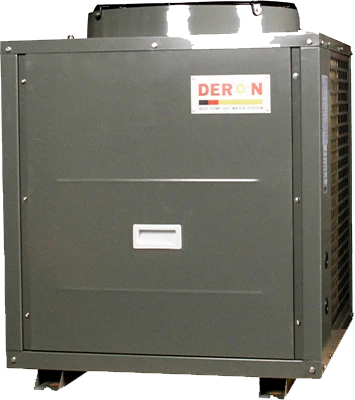
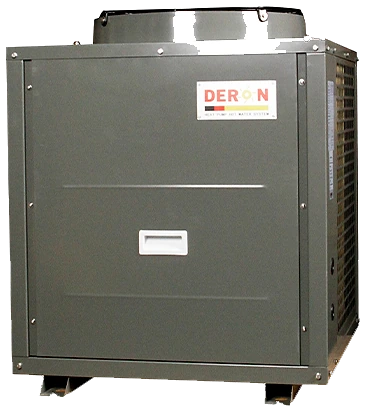
Contact cards fit their text, and clean Deron photos
- Contact: the Customer service & repairs label ran past its card on laptops (the card is a tel: link, whose no-wrap rule also held the label). The columns now follow their content and the label may wrap
- Deron Air to Water and Swimming Pool: re-cut from the originals on DPY's old website, with a soft floor shadow instead of the ragged white floor, and the pool unit's fan housing whole. Pages that show them get the new sizes

diff --git a/products/deron-air-to-water-heat-pump.html b/products/deron-air-to-water-heat-pump.html
@@ -696,12 +696,12 @@ html.gal-open{overflow:hidden}
       <div class="pd-media">
         <div class="stage gal" data-gal role="region" aria-roledescription="carousel" aria-label="Photos of Deron Air to Water Heat Pump">
           <span class="halo"></span><span class="floor"></span><span class="plinth"></span>
-          <div class="gal-track" tabindex="0"><figure class="gal-s" role="group" aria-roledescription="slide" aria-label="1 of 3"><img src="../assets/img/dpy/deron-wizard.webp" width="450" height="470" alt="Deron Air to Water Heat Pump" class="main" fetchpriority="high"></figure><figure class="gal-s" role="group" aria-roledescription="slide" aria-label="2 of 3"><img src="../assets/img/dpy/deron-rooftop.webp" width="1279" height="959" alt="Deron air-to-water heat pumps installed on a rooftop" srcset="../assets/img/dpy/deron-rooftop-800.webp 800w, ../assets/img/dpy/deron-rooftop.webp 1279w" sizes="(max-width:640px) 100vw, 60vw" class="main photo" loading="lazy"><figcaption>Installed on a rooftop</figcaption></figure><figure class="gal-s" role="group" aria-roledescription="slide" aria-label="3 of 3"><img src="../assets/img/dpy/deron-rooftop-tank.webp" width="1440" height="1080" alt="A Deron heat pump on a rooftop beside a stainless steel hot water tank" srcset="../assets/img/dpy/deron-rooftop-tank-800.webp 800w, ../assets/img/dpy/deron-rooftop-tank.webp 1440w" sizes="(max-width:640px) 100vw, 60vw" class="main photo" loading="lazy"><figcaption>With a hot water tank</figcaption></figure></div>
+          <div class="gal-track" tabindex="0"><figure class="gal-s" role="group" aria-roledescription="slide" aria-label="1 of 3"><img src="../assets/img/dpy/deron-wizard.webp" width="449" height="466" alt="Deron Air to Water Heat Pump" class="main" fetchpriority="high"></figure><figure class="gal-s" role="group" aria-roledescription="slide" aria-label="2 of 3"><img src="../assets/img/dpy/deron-rooftop.webp" width="1279" height="959" alt="Deron air-to-water heat pumps installed on a rooftop" srcset="../assets/img/dpy/deron-rooftop-800.webp 800w, ../assets/img/dpy/deron-rooftop.webp 1279w" sizes="(max-width:640px) 100vw, 60vw" class="main photo" loading="lazy"><figcaption>Installed on a rooftop</figcaption></figure><figure class="gal-s" role="group" aria-roledescription="slide" aria-label="3 of 3"><img src="../assets/img/dpy/deron-rooftop-tank.webp" width="1440" height="1080" alt="A Deron heat pump on a rooftop beside a stainless steel hot water tank" srcset="../assets/img/dpy/deron-rooftop-tank-800.webp 800w, ../assets/img/dpy/deron-rooftop-tank.webp 1440w" sizes="(max-width:640px) 100vw, 60vw" class="main photo" loading="lazy"><figcaption>With a hot water tank</figcaption></figure></div>
           <button class="gal-btn prev" type="button" aria-label="Previous photo"><svg aria-hidden="true"><use href="#arr"/></svg></button><button class="gal-btn next" type="button" aria-label="Next photo"><svg aria-hidden="true"><use href="#arr"/></svg></button>
           <button class="gal-full" type="button" aria-label="View the photos full screen"><svg viewBox="0 0 16 16" fill="none" stroke="currentColor" stroke-width="1.7" stroke-linecap="round" stroke-linejoin="round" aria-hidden="true"><path d="M9.5 2.5h4v4M6.5 13.5h-4v-4M13.5 2.5 9 7M2.5 13.5 7 9"/></svg></button>
           <span class="gal-n" aria-hidden="true"><b>1</b> / 3</span>
         </div>
-        <div class="gal-th"><button type="button" aria-label="Photo 1 of 3: Deron Air to Water Heat Pump" aria-current="true"><img src="../assets/img/dpy/deron-wizard.webp" width="450" height="470" alt="" loading="lazy"></button><button type="button" aria-label="Photo 2 of 3: Deron air-to-water heat pumps installed on a rooftop"><img src="../assets/img/dpy/deron-rooftop.webp" width="1279" height="959" alt="" srcset="../assets/img/dpy/deron-rooftop-800.webp 800w, ../assets/img/dpy/deron-rooftop.webp 1279w" sizes="72px" loading="lazy"></button><button type="button" aria-label="Photo 3 of 3: A Deron heat pump on a rooftop beside a stainless steel hot water tank"><img src="../assets/img/dpy/deron-rooftop-tank.webp" width="1440" height="1080" alt="" srcset="../assets/img/dpy/deron-rooftop-tank-800.webp 800w, ../assets/img/dpy/deron-rooftop-tank.webp 1440w" sizes="72px" loading="lazy"></button></div>
+        <div class="gal-th"><button type="button" aria-label="Photo 1 of 3: Deron Air to Water Heat Pump" aria-current="true"><img src="../assets/img/dpy/deron-wizard.webp" width="449" height="466" alt="" loading="lazy"></button><button type="button" aria-label="Photo 2 of 3: Deron air-to-water heat pumps installed on a rooftop"><img src="../assets/img/dpy/deron-rooftop.webp" width="1279" height="959" alt="" srcset="../assets/img/dpy/deron-rooftop-800.webp 800w, ../assets/img/dpy/deron-rooftop.webp 1279w" sizes="72px" loading="lazy"></button><button type="button" aria-label="Photo 3 of 3: A Deron heat pump on a rooftop beside a stainless steel hot water tank"><img src="../assets/img/dpy/deron-rooftop-tank.webp" width="1440" height="1080" alt="" srcset="../assets/img/dpy/deron-rooftop-tank-800.webp 800w, ../assets/img/dpy/deron-rooftop-tank.webp 1440w" sizes="72px" loading="lazy"></button></div>
       </div>
     </div>
   </div>
@@ -776,7 +776,7 @@ html.gal-open{overflow:hidden}
   <div class="acts"><button class="cmpb" type="button" data-cmp="deron-water-to-water-heat-pump" data-name="Deron Water to Water Heat Pump" data-img="assets/img/dpy/deron-w2w.webp" aria-pressed="false" aria-label="Compare Deron Water to Water Heat Pump" title="Compare"><svg viewBox="0 0 16 16" fill="none" stroke="currentColor" stroke-width="1.7" stroke-linecap="round" stroke-linejoin="round" aria-hidden="true"><path d="M2.5 5h9M9 2.5 11.5 5 9 7.5M13.5 11h-9M7 8.5 4.5 11 7 13.5"/></svg></button><button class="addq" type="button" data-add="deron-water-to-water-heat-pump" data-name="Deron Water to Water Heat Pump" data-img="assets/img/dpy/deron-w2w.webp" data-cat="heatpump" aria-pressed="false" aria-label="Add Deron Water to Water Heat Pump to your quote"><svg aria-hidden="true"><use href="#plus"/></svg><span class="of">Add<span class="lg"> to quote</span></span><span class="on"><span class="lg">In your quote</span><span class="sm">Added</span></span></button></div>
 </article><article class="pc" data-cat="heatpump" data-for="business" data-r>
   <span class="tag">Heat pump</span><span class="who"><span class="b">Business</span></span>
-  <div class="pic"><img src="../assets/img/dpy/deron-pool.webp" width="355" height="400" alt="Deron Swimming Pool Heat Pump" loading="lazy"></div>
+  <div class="pic"><img src="../assets/img/dpy/deron-pool.webp" width="366" height="412" alt="Deron Swimming Pool Heat Pump" loading="lazy"></div>
   <p class="br">Deron · 34 to 86 kW</p>
   <h3><a href="../products/deron-swimming-pool-heat-pump">Deron Swimming Pool Heat Pump</a></h3>
   <p>Keeps resort and hotel pools at a comfortable temperature, with a corrosion-proof titanium heat exchanger.</p>

diff --git a/water-heaters.html b/water-heaters.html
@@ -579,7 +579,7 @@ html.modal-open{overflow:hidden}
       <p class="lede">25 products from 14 brands, for a single shower or a whole hotel. Every one is supplied, installed and serviced by our own team.</p>
       <div class="ph-acts"><button class="btn red" type="button" data-finder>Help me choose <svg aria-hidden="true"><use href="#arr"/></svg></button><a class="btn ghost" href="#range">Browse all products</a></div>
     </div>
-    <div class="lineup" aria-hidden="true"><img src="assets/img/dpy/aquapower-a35.webp" width="1634" height="2513" alt="" srcset="assets/img/dpy/aquapower-a35-800.webp 800w, assets/img/dpy/aquapower-a35.webp 1634w" sizes="(max-width:640px) 100vw, 60vw" class="a"><img src="assets/img/dpy/rheem.webp" width="270" height="452" alt="" class="b"><img src="assets/img/dpy/heatpump-5star.webp" width="138" height="410" alt="" class="c"><img src="assets/img/dpy/deron-wizard.webp" width="450" height="470" alt="" class="d"></div>
+    <div class="lineup" aria-hidden="true"><img src="assets/img/dpy/aquapower-a35.webp" width="1634" height="2513" alt="" srcset="assets/img/dpy/aquapower-a35-800.webp 800w, assets/img/dpy/aquapower-a35.webp 1634w" sizes="(max-width:640px) 100vw, 60vw" class="a"><img src="assets/img/dpy/rheem.webp" width="270" height="452" alt="" class="b"><img src="assets/img/dpy/heatpump-5star.webp" width="138" height="410" alt="" class="c"><img src="assets/img/dpy/deron-wizard.webp" width="449" height="466" alt="" class="d"></div>
   </div>
 </section>
 
@@ -703,7 +703,7 @@ html.modal-open{overflow:hidden}
   <div class="acts"><button class="cmpb" type="button" data-cmp="5-star-integral-heat-pump" data-name="5 Star Integral Heat Pump" data-img="assets/img/dpy/heatpump-5star.webp" aria-pressed="false" aria-label="Compare 5 Star Integral Heat Pump" title="Compare"><svg viewBox="0 0 16 16" fill="none" stroke="currentColor" stroke-width="1.7" stroke-linecap="round" stroke-linejoin="round" aria-hidden="true"><path d="M2.5 5h9M9 2.5 11.5 5 9 7.5M13.5 11h-9M7 8.5 4.5 11 7 13.5"/></svg></button><button class="addq" type="button" data-add="5-star-integral-heat-pump" data-name="5 Star Integral Heat Pump" data-img="assets/img/dpy/heatpump-5star.webp" data-cat="heatpump" aria-pressed="false" aria-label="Add 5 Star Integral Heat Pump to your quote"><svg aria-hidden="true"><use href="#plus"/></svg><span class="of">Add<span class="lg"> to quote</span></span><span class="on"><span class="lg">In your quote</span><span class="sm">Added</span></span></button></div>
 </article><article class="pc" data-cat="heatpump" data-for="business" data-r>
   <span class="tag">Heat pump</span><span class="who"><span class="b">Business</span></span>
-  <div class="pic"><img src="assets/img/dpy/deron-wizard.webp" width="450" height="470" alt="Deron Air to Water Heat Pump" loading="lazy"></div>
+  <div class="pic"><img src="assets/img/dpy/deron-wizard.webp" width="449" height="466" alt="Deron Air to Water Heat Pump" loading="lazy"></div>
   <p class="br">Deron · 11 to 75 kW</p>
   <h3><a href="products/deron-air-to-water-heat-pump">Deron Air to Water Heat Pump</a></h3>
   <p>Commercial heat pumps that heat water to 55–60°C for hotels, hospitals and buildings, with a COP of about 4.</p>
@@ -719,7 +719,7 @@ html.modal-open{overflow:hidden}
   <div class="acts"><button class="cmpb" type="button" data-cmp="deron-water-to-water-heat-pump" data-name="Deron Water to Water Heat Pump" data-img="assets/img/dpy/deron-w2w.webp" aria-pressed="false" aria-label="Compare Deron Water to Water Heat Pump" title="Compare"><svg viewBox="0 0 16 16" fill="none" stroke="currentColor" stroke-width="1.7" stroke-linecap="round" stroke-linejoin="round" aria-hidden="true"><path d="M2.5 5h9M9 2.5 11.5 5 9 7.5M13.5 11h-9M7 8.5 4.5 11 7 13.5"/></svg></button><button class="addq" type="button" data-add="deron-water-to-water-heat-pump" data-name="Deron Water to Water Heat Pump" data-img="assets/img/dpy/deron-w2w.webp" data-cat="heatpump" aria-pressed="false" aria-label="Add Deron Water to Water Heat Pump to your quote"><svg aria-hidden="true"><use href="#plus"/></svg><span class="of">Add<span class="lg"> to quote</span></span><span class="on"><span class="lg">In your quote</span><span class="sm">Added</span></span></button></div>
 </article><article class="pc" data-cat="heatpump" data-for="business" data-r>
   <span class="tag">Heat pump</span><span class="who"><span class="b">Business</span></span>
-  <div class="pic"><img src="assets/img/dpy/deron-pool.webp" width="355" height="400" alt="Deron Swimming Pool Heat Pump" loading="lazy"></div>
+  <div class="pic"><img src="assets/img/dpy/deron-pool.webp" width="366" height="412" alt="Deron Swimming Pool Heat Pump" loading="lazy"></div>
   <p class="br">Deron · 34 to 86 kW</p>
   <h3><a href="products/deron-swimming-pool-heat-pump">Deron Swimming Pool Heat Pump</a></h3>
   <p>Keeps resort and hotel pools at a comfortable temperature, with a corrosion-proof titanium heat exchanger.</p>

diff --git a/products/deron-swimming-pool-heat-pump.html b/products/deron-swimming-pool-heat-pump.html
@@ -693,7 +693,7 @@ html.gal-open{overflow:hidden}
         <div class="ph-acts"><a class="btn red" href="../contact?add=deron-swimming-pool-heat-pump#quote" data-quote-now="deron-swimming-pool-heat-pump" data-name="Deron Swimming Pool Heat Pump" data-img="assets/img/dpy/deron-pool.webp" data-cat="heatpump">Get a quote for this <svg aria-hidden="true"><use href="#arr"/></svg></a><button class="addq" type="button" data-add="deron-swimming-pool-heat-pump" data-name="Deron Swimming Pool Heat Pump" data-img="assets/img/dpy/deron-pool.webp" data-cat="heatpump" aria-pressed="false"><svg aria-hidden="true"><use href="#plus"/></svg><span class="of">Add to quote list</span><span class="on">In your quote list</span></button><button class="cmpb wide" type="button" data-cmp="deron-swimming-pool-heat-pump" data-name="Deron Swimming Pool Heat Pump" data-img="assets/img/dpy/deron-pool.webp" aria-pressed="false"><svg viewBox="0 0 16 16" fill="none" stroke="currentColor" stroke-width="1.7" stroke-linecap="round" stroke-linejoin="round" aria-hidden="true"><path d="M2.5 5h9M9 2.5 11.5 5 9 7.5M13.5 11h-9M7 8.5 4.5 11 7 13.5"/></svg><span class="of">Compare</span><span class="on">Comparing</span></button></div>
         <div class="pd-msg">Questions first? <a class="msgr fb" href="https://m.me/dpymercantileinc" target="_blank" rel="noopener"><svg viewBox="0 0 24 24" aria-hidden="true"><path fill="currentColor" d="M12 2C6.4 2 2 6.1 2 11.6c0 2.9 1.2 5.4 3.2 7.1V22l3-1.7c1.2.3 2.4.5 3.8.5 5.6 0 10-4.1 10-9.6S17.6 2 12 2zm1 12.9l-2.6-2.7-5 2.7 5.5-5.8 2.6 2.7 5-2.7-5.5 5.8z"/></svg>Messenger</a><a class="msgr vb" href="viber://chat?number=%2B639338672954"><svg viewBox="0 0 24 24" aria-hidden="true"><path fill="currentColor" d="M11.4 1.5c-2.6 0-7 .4-8.6 2C1.5 4.8 1 6.7 1 9.3v2.4c0 2.6.5 4.5 1.8 5.8.8.8 2 1.3 3.2 1.6v3c0 .6.7.9 1.1.5l2.9-3c.6 0 1.2.1 1.8.1 2.6 0 7-.4 8.6-2 1.3-1.3 1.6-3.2 1.6-5.8V9.3c0-2.6-.4-4.5-1.6-5.8-1.6-1.6-6-2-8.6-2zm4.8 13.2c-.3.8-1.5 1.5-2.2 1.5-.6 0-1.2-.2-3.5-1.4-2.6-1.4-4.4-4.1-4.5-4.3-.2-.2-1-1.4-1-2.7 0-1.3.7-1.9.9-2.2.3-.3.6-.3.8-.3h.6c.2 0 .4 0 .6.5l.8 1.9c.1.2.1.4 0 .5l-.3.5-.4.4c-.1.2-.3.3-.1.6.2.3.7 1.2 1.6 2 1.1 1 2 1.3 2.3 1.4.3.1.4.1.6-.1l.8-1c.2-.3.4-.2.6-.1l1.8.9c.3.1.4.2.5.3.1.2.1.8-.2 1.6z"/></svg>Viber</a><a class="msgr" style="background:var(--ink)" href="tel:+639338672954"><svg viewBox="0 0 16 16" fill="none" stroke="currentColor" stroke-width="1.6" stroke-linejoin="round" aria-hidden="true"><path d="M3 1.8h2.4l1.2 3-1.6 1a8 8 0 0 0 5.2 5.2l1-1.6 3 1.2v2.4a1.5 1.5 0 0 1-1.6 1.5A12.5 12.5 0 0 1 1.5 3.4 1.5 1.5 0 0 1 3 1.8z"/></svg>Call</a></div>
       </div>
-      <div class="stage"><span class="halo"></span><span class="floor"></span><span class="plinth"></span><img src="../assets/img/dpy/deron-pool.webp" width="355" height="400" alt="Deron Swimming Pool Heat Pump" class="main" fetchpriority="high"></div>
+      <div class="stage"><span class="halo"></span><span class="floor"></span><span class="plinth"></span><img src="../assets/img/dpy/deron-pool.webp" width="366" height="412" alt="Deron Swimming Pool Heat Pump" class="main" fetchpriority="high"></div>
     </div>
   </div>
 </section>
@@ -759,7 +759,7 @@ html.gal-open{overflow:hidden}
   <div class="acts"><button class="cmpb" type="button" data-cmp="5-star-integral-heat-pump" data-name="5 Star Integral Heat Pump" data-img="assets/img/dpy/heatpump-5star.webp" aria-pressed="false" aria-label="Compare 5 Star Integral Heat Pump" title="Compare"><svg viewBox="0 0 16 16" fill="none" stroke="currentColor" stroke-width="1.7" stroke-linecap="round" stroke-linejoin="round" aria-hidden="true"><path d="M2.5 5h9M9 2.5 11.5 5 9 7.5M13.5 11h-9M7 8.5 4.5 11 7 13.5"/></svg></button><button class="addq" type="button" data-add="5-star-integral-heat-pump" data-name="5 Star Integral Heat Pump" data-img="assets/img/dpy/heatpump-5star.webp" data-cat="heatpump" aria-pressed="false" aria-label="Add 5 Star Integral Heat Pump to your quote"><svg aria-hidden="true"><use href="#plus"/></svg><span class="of">Add<span class="lg"> to quote</span></span><span class="on"><span class="lg">In your quote</span><span class="sm">Added</span></span></button></div>
 </article><article class="pc" data-cat="heatpump" data-for="business" data-r>
   <span class="tag">Heat pump</span><span class="who"><span class="b">Business</span></span>
-  <div class="pic"><img src="../assets/img/dpy/deron-wizard.webp" width="450" height="470" alt="Deron Air to Water Heat Pump" loading="lazy"></div>
+  <div class="pic"><img src="../assets/img/dpy/deron-wizard.webp" width="449" height="466" alt="Deron Air to Water Heat Pump" loading="lazy"></div>
   <p class="br">Deron · 11 to 75 kW</p>
   <h3><a href="../products/deron-air-to-water-heat-pump">Deron Air to Water Heat Pump</a></h3>
   <p>Commercial heat pumps that heat water to 55–60°C for hotels, hospitals and buildings, with a COP of about 4.</p>

diff --git a/products/deron-water-to-water-heat-pump.html b/products/deron-water-to-water-heat-pump.html
@@ -765,7 +765,7 @@ html.gal-open{overflow:hidden}
   <div class="acts"><button class="cmpb" type="button" data-cmp="5-star-integral-heat-pump" data-name="5 Star Integral Heat Pump" data-img="assets/img/dpy/heatpump-5star.webp" aria-pressed="false" aria-label="Compare 5 Star Integral Heat Pump" title="Compare"><svg viewBox="0 0 16 16" fill="none" stroke="currentColor" stroke-width="1.7" stroke-linecap="round" stroke-linejoin="round" aria-hidden="true"><path d="M2.5 5h9M9 2.5 11.5 5 9 7.5M13.5 11h-9M7 8.5 4.5 11 7 13.5"/></svg></button><button class="addq" type="button" data-add="5-star-integral-heat-pump" data-name="5 Star Integral Heat Pump" data-img="assets/img/dpy/heatpump-5star.webp" data-cat="heatpump" aria-pressed="false" aria-label="Add 5 Star Integral Heat Pump to your quote"><svg aria-hidden="true"><use href="#plus"/></svg><span class="of">Add<span class="lg"> to quote</span></span><span class="on"><span class="lg">In your quote</span><span class="sm">Added</span></span></button></div>
 </article><article class="pc" data-cat="heatpump" data-for="business" data-r>
   <span class="tag">Heat pump</span><span class="who"><span class="b">Business</span></span>
-  <div class="pic"><img src="../assets/img/dpy/deron-wizard.webp" width="450" height="470" alt="Deron Air to Water Heat Pump" loading="lazy"></div>
+  <div class="pic"><img src="../assets/img/dpy/deron-wizard.webp" width="449" height="466" alt="Deron Air to Water Heat Pump" loading="lazy"></div>
   <p class="br">Deron · 11 to 75 kW</p>
   <h3><a href="../products/deron-air-to-water-heat-pump">Deron Air to Water Heat Pump</a></h3>
   <p>Commercial heat pumps that heat water to 55–60°C for hotels, hospitals and buildings, with a COP of about 4.</p>
@@ -773,7 +773,7 @@ html.gal-open{overflow:hidden}
   <div class="acts"><button class="cmpb" type="button" data-cmp="deron-air-to-water-heat-pump" data-name="Deron Air to Water Heat Pump" data-img="assets/img/dpy/deron-wizard.webp" aria-pressed="false" aria-label="Compare Deron Air to Water Heat Pump" title="Compare"><svg viewBox="0 0 16 16" fill="none" stroke="currentColor" stroke-width="1.7" stroke-linecap="round" stroke-linejoin="round" aria-hidden="true"><path d="M2.5 5h9M9 2.5 11.5 5 9 7.5M13.5 11h-9M7 8.5 4.5 11 7 13.5"/></svg></button><button class="addq" type="button" data-add="deron-air-to-water-heat-pump" data-name="Deron Air to Water Heat Pump" data-img="assets/img/dpy/deron-wizard.webp" data-cat="heatpump" aria-pressed="false" aria-label="Add Deron Air to Water Heat Pump to your quote"><svg aria-hidden="true"><use href="#plus"/></svg><span class="of">Add<span class="lg"> to quote</span></span><span class="on"><span class="lg">In your quote</span><span class="sm">Added</span></span></button></div>
 </article><article class="pc" data-cat="heatpump" data-for="business" data-r>
   <span class="tag">Heat pump</span><span class="who"><span class="b">Business</span></span>
-  <div class="pic"><img src="../assets/img/dpy/deron-pool.webp" width="355" height="400" alt="Deron Swimming Pool Heat Pump" loading="lazy"></div>
+  <div class="pic"><img src="../assets/img/dpy/deron-pool.webp" width="366" height="412" alt="Deron Swimming Pool Heat Pump" loading="lazy"></div>
   <p class="br">Deron · 34 to 86 kW</p>
   <h3><a href="../products/deron-swimming-pool-heat-pump">Deron Swimming Pool Heat Pump</a></h3>
   <p>Keeps resort and hotel pools at a comfortable temperature, with a corrosion-proof titanium heat exchanger.</p>

diff --git a/products/5-star-integral-heat-pump.html b/products/5-star-integral-heat-pump.html
@@ -751,7 +751,7 @@ html.gal-open{overflow:hidden}
     <div class="sec-head"><div><span class="kick">Also consider</span><h2 class="thin h2" id="rlT">Related Products</h2></div><span style="display:flex;gap:18px;flex-wrap:wrap"><a class="link" href="../compare?p=5-star-integral-heat-pump,deron-air-to-water-heat-pump,deron-water-to-water-heat-pump">Compare with similar <svg aria-hidden="true"><use href="#arr"/></svg></a><a class="link" href="../water-heaters">See all products <svg aria-hidden="true"><use href="#arr"/></svg></a></span></div>
     <div class="grid rel"><article class="pc" data-cat="heatpump" data-for="business" data-r>
   <span class="tag">Heat pump</span><span class="who"><span class="b">Business</span></span>
-  <div class="pic"><img src="../assets/img/dpy/deron-wizard.webp" width="450" height="470" alt="Deron Air to Water Heat Pump" loading="lazy"></div>
+  <div class="pic"><img src="../assets/img/dpy/deron-wizard.webp" width="449" height="466" alt="Deron Air to Water Heat Pump" loading="lazy"></div>
   <p class="br">Deron · 11 to 75 kW</p>
   <h3><a href="../products/deron-air-to-water-heat-pump">Deron Air to Water Heat Pump</a></h3>
   <p>Commercial heat pumps that heat water to 55–60°C for hotels, hospitals and buildings, with a COP of about 4.</p>
@@ -767,7 +767,7 @@ html.gal-open{overflow:hidden}
   <div class="acts"><button class="cmpb" type="button" data-cmp="deron-water-to-water-heat-pump" data-name="Deron Water to Water Heat Pump" data-img="assets/img/dpy/deron-w2w.webp" aria-pressed="false" aria-label="Compare Deron Water to Water Heat Pump" title="Compare"><svg viewBox="0 0 16 16" fill="none" stroke="currentColor" stroke-width="1.7" stroke-linecap="round" stroke-linejoin="round" aria-hidden="true"><path d="M2.5 5h9M9 2.5 11.5 5 9 7.5M13.5 11h-9M7 8.5 4.5 11 7 13.5"/></svg></button><button class="addq" type="button" data-add="deron-water-to-water-heat-pump" data-name="Deron Water to Water Heat Pump" data-img="assets/img/dpy/deron-w2w.webp" data-cat="heatpump" aria-pressed="false" aria-label="Add Deron Water to Water Heat Pump to your quote"><svg aria-hidden="true"><use href="#plus"/></svg><span class="of">Add<span class="lg"> to quote</span></span><span class="on"><span class="lg">In your quote</span><span class="sm">Added</span></span></button></div>
 </article><article class="pc" data-cat="heatpump" data-for="business" data-r>
   <span class="tag">Heat pump</span><span class="who"><span class="b">Business</span></span>
-  <div class="pic"><img src="../assets/img/dpy/deron-pool.webp" width="355" height="400" alt="Deron Swimming Pool Heat Pump" loading="lazy"></div>
+  <div class="pic"><img src="../assets/img/dpy/deron-pool.webp" width="366" height="412" alt="Deron Swimming Pool Heat Pump" loading="lazy"></div>
   <p class="br">Deron · 34 to 86 kW</p>
   <h3><a href="../products/deron-swimming-pool-heat-pump">Deron Swimming Pool Heat Pump</a></h3>
   <p>Keeps resort and hotel pools at a comfortable temperature, with a corrosion-proof titanium heat exchanger.</p>

diff --git a/blog/heat-pump-or-solar.html b/blog/heat-pump-or-solar.html
@@ -587,7 +587,7 @@ button.busy{cursor:progress;opacity:.85}
   <div class="acts"><button class="cmpb" type="button" data-cmp="5-star-solar-water-heater" data-name="5 Star CZ2.0 / CZ4.0 Solar Water Heater" data-img="assets/img/dpy/solar-5star-cz.webp" aria-pressed="false" aria-label="Compare 5 Star CZ2.0 / CZ4.0 Solar Water Heater" title="Compare"><svg viewBox="0 0 16 16" fill="none" stroke="currentColor" stroke-width="1.7" stroke-linecap="round" stroke-linejoin="round" aria-hidden="true"><path d="M2.5 5h9M9 2.5 11.5 5 9 7.5M13.5 11h-9M7 8.5 4.5 11 7 13.5"/></svg></button><button class="addq" type="button" data-add="5-star-solar-water-heater" data-name="5 Star CZ2.0 / CZ4.0 Solar Water Heater" data-img="assets/img/dpy/solar-5star-cz.webp" data-cat="solar" aria-pressed="false" aria-label="Add 5 Star CZ2.0 / CZ4.0 Solar Water Heater to your quote"><svg aria-hidden="true"><use href="#plus"/></svg><span class="of">Add<span class="lg"> to quote</span></span><span class="on"><span class="lg">In your quote</span><span class="sm">Added</span></span></button></div>
 </article><article class="pc" data-cat="heatpump" data-for="business" data-r>
   <span class="tag">Heat pump</span><span class="who"><span class="b">Business</span></span>
-  <div class="pic"><img src="../assets/img/dpy/deron-wizard.webp" width="450" height="470" alt="Deron Air to Water Heat Pump" loading="lazy"></div>
+  <div class="pic"><img src="../assets/img/dpy/deron-wizard.webp" width="449" height="466" alt="Deron Air to Water Heat Pump" loading="lazy"></div>
   <p class="br">Deron · 11 to 75 kW</p>
   <h3><a href="../products/deron-air-to-water-heat-pump">Deron Air to Water Heat Pump</a></h3>
   <p>Commercial heat pumps that heat water to 55–60°C for hotels, hospitals and buildings, with a COP of about 4.</p>

diff --git a/blog/hygienic-hot-water-hospitals.html b/blog/hygienic-hot-water-hospitals.html
@@ -593,7 +593,7 @@ button.busy{cursor:progress;opacity:.85}
   <div class="acts"><button class="cmpb" type="button" data-cmp="haase-energy-storage-tank" data-name="HAASE Energy Storage Tank" data-img="assets/img/dpy/haase-tank.webp" aria-pressed="false" aria-label="Compare HAASE Energy Storage Tank" title="Compare"><svg viewBox="0 0 16 16" fill="none" stroke="currentColor" stroke-width="1.7" stroke-linecap="round" stroke-linejoin="round" aria-hidden="true"><path d="M2.5 5h9M9 2.5 11.5 5 9 7.5M13.5 11h-9M7 8.5 4.5 11 7 13.5"/></svg></button><button class="addq" type="button" data-add="haase-energy-storage-tank" data-name="HAASE Energy Storage Tank" data-img="assets/img/dpy/haase-tank.webp" data-cat="tank" aria-pressed="false" aria-label="Add HAASE Energy Storage Tank to your quote"><svg aria-hidden="true"><use href="#plus"/></svg><span class="of">Add<span class="lg"> to quote</span></span><span class="on"><span class="lg">In your quote</span><span class="sm">Added</span></span></button></div>
 </article><article class="pc" data-cat="heatpump" data-for="business" data-r>
   <span class="tag">Heat pump</span><span class="who"><span class="b">Business</span></span>
-  <div class="pic"><img src="../assets/img/dpy/deron-wizard.webp" width="450" height="470" alt="Deron Air to Water Heat Pump" loading="lazy"></div>
+  <div class="pic"><img src="../assets/img/dpy/deron-wizard.webp" width="449" height="466" alt="Deron Air to Water Heat Pump" loading="lazy"></div>
   <p class="br">Deron · 11 to 75 kW</p>
   <h3><a href="../products/deron-air-to-water-heat-pump">Deron Air to Water Heat Pump</a></h3>
   <p>Commercial heat pumps that heat water to 55–60°C for hotels, hospitals and buildings, with a COP of about 4.</p>

diff --git a/contact.html b/contact.html
@@ -462,14 +462,14 @@ button.busy{cursor:progress;opacity:.85}
 @media (prefers-reduced-motion:reduce){.js [data-r]{opacity:1;transform:none}}
 /* ways to reach us: one row of cards */
 /* the email cards get the room: an address stays on one line (it may still wrap before its @ on a narrow card) */
-.ch{display:grid;grid-template-columns:minmax(0,.85fr) minmax(0,.85fr) minmax(0,1.15fr) minmax(0,1.15fr);gap:12px}
+.ch{display:grid;grid-template-columns:repeat(4,auto);gap:12px} /* each card as wide as its text needs, spare room shared */
 .ch b{overflow-wrap:break-word}
 /* only the cards themselves: the general inquiries link below them stays an inline link */
 .ch > a,.ch div.c{display:flex;gap:14px;align-items:center;padding:16px 18px;border-radius:20px;background:#fff;box-shadow:var(--card);transition:transform .5s var(--ease)}
 .ch > a:hover{transform:translateX(4px)}
 .ch i{flex:none;width:42px;height:42px;border-radius:50%;display:grid;place-items:center;background:var(--soft);color:var(--ink)}
 .ch i svg{width:17px;height:17px}
-.ch small{display:block;font-size:13px;color:var(--mute)}
+.ch small{display:block;font-size:13px;color:var(--mute);white-space:normal} /* the card is a tel: link, which keeps numbers on one line; the label may wrap */
 .ch b{display:block;font-size:16px;font-weight:600;letter-spacing:-.01em}
 .ch b a{color:inherit}.ch b a:hover{color:var(--red)}
 .ch .msgs{display:flex;gap:8px;flex-wrap:wrap}

diff --git a/blog/hotel-hot-water-morning-rush.html b/blog/hotel-hot-water-morning-rush.html
@@ -577,7 +577,7 @@ button.busy{cursor:progress;opacity:.85}
     <div class="sec-head"><div><span class="kick">Mentioned in this article</span><h2 class="thin h2" id="rpT">Related Products</h2></div><a class="link" href="../water-heaters">All products <svg aria-hidden="true"><use href="#arr"/></svg></a></div>
     <div class="grid ar-rel"><article class="pc" data-cat="heatpump" data-for="business" data-r>
   <span class="tag">Heat pump</span><span class="who"><span class="b">Business</span></span>
-  <div class="pic"><img src="../assets/img/dpy/deron-wizard.webp" width="450" height="470" alt="Deron Air to Water Heat Pump" loading="lazy"></div>
+  <div class="pic"><img src="../assets/img/dpy/deron-wizard.webp" width="449" height="466" alt="Deron Air to Water Heat Pump" loading="lazy"></div>
   <p class="br">Deron · 11 to 75 kW</p>
   <h3><a href="../products/deron-air-to-water-heat-pump">Deron Air to Water Heat Pump</a></h3>
   <p>Commercial heat pumps that heat water to 55–60°C for hotels, hospitals and buildings, with a COP of about 4.</p>
